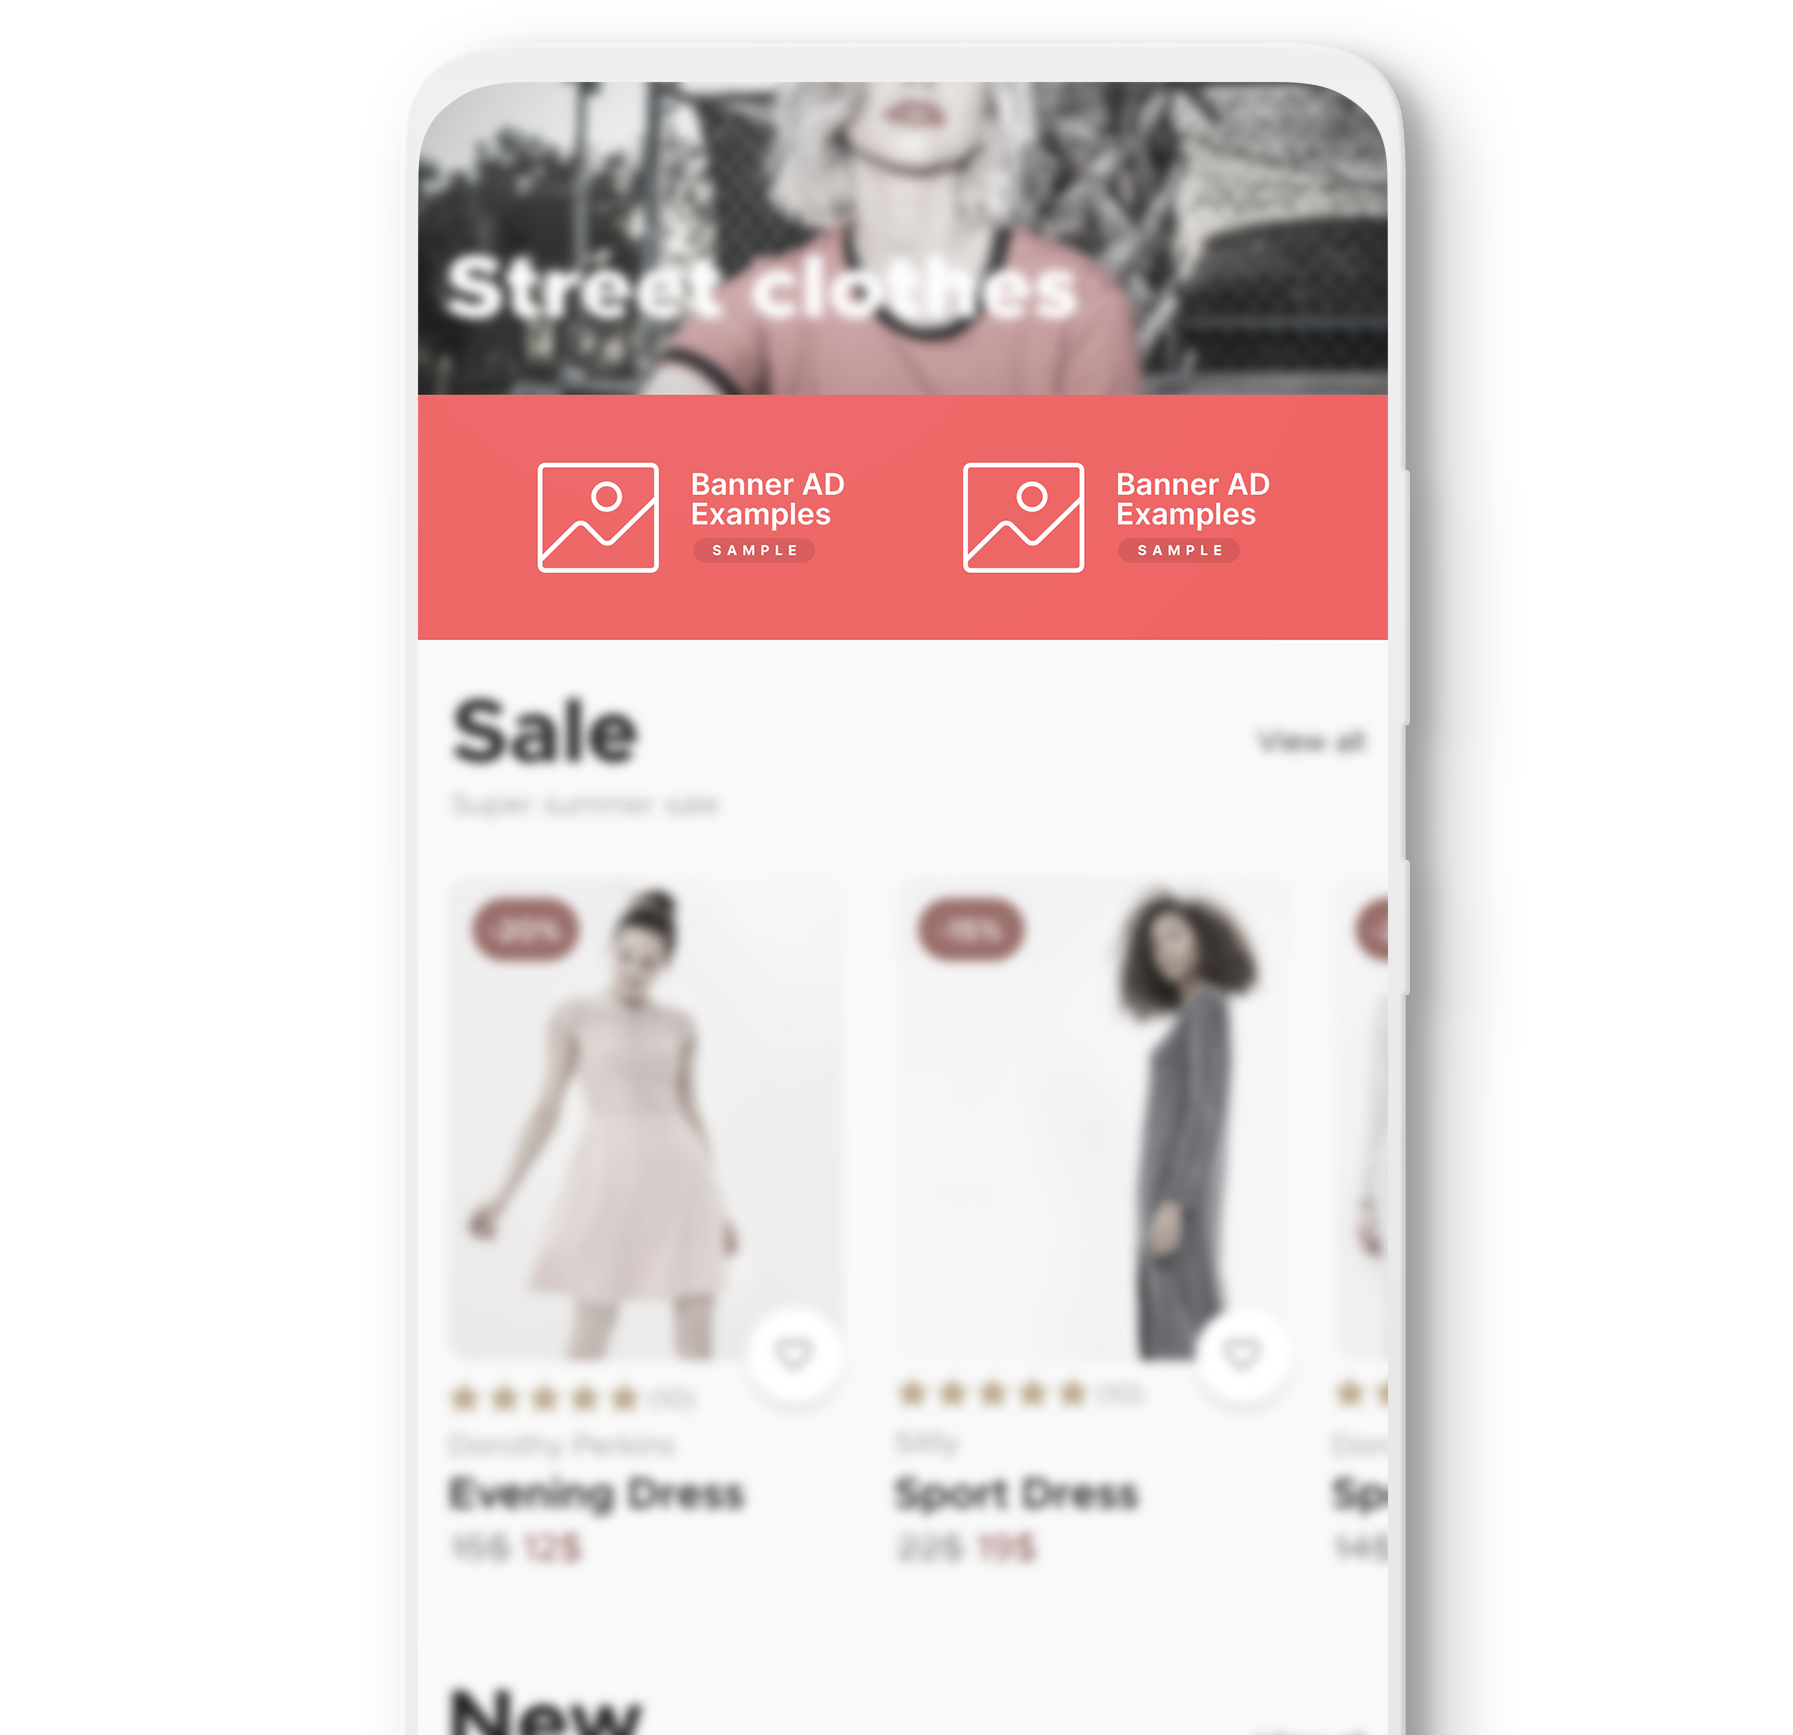
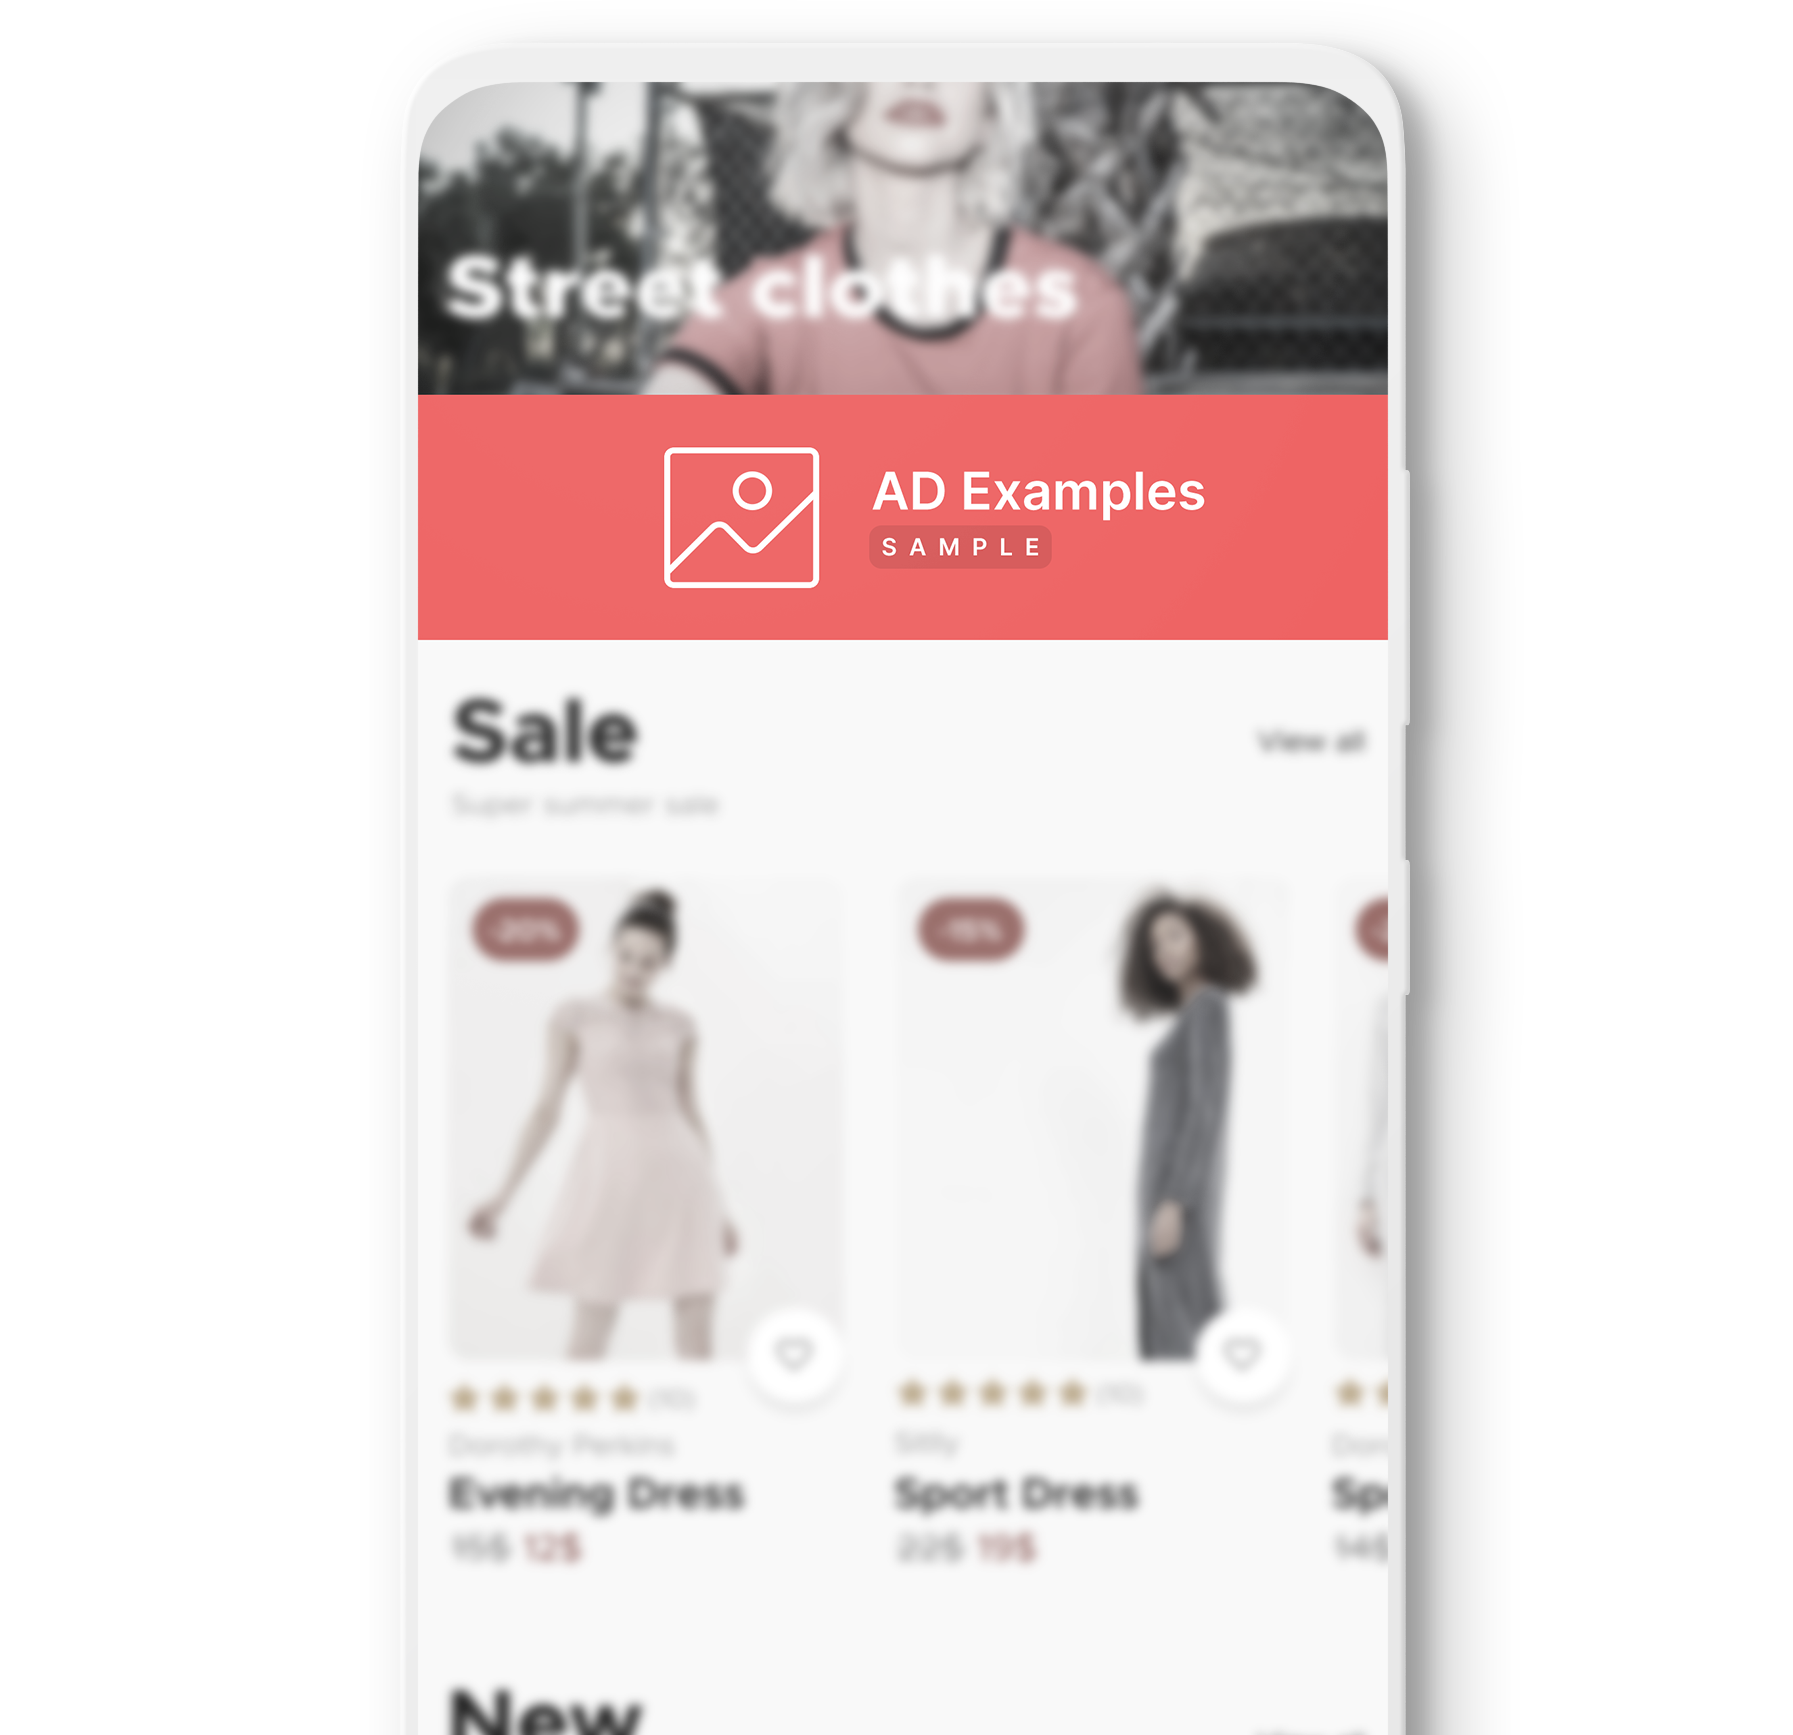
ssp 목업 업데이트

Changed region(s): [[0.2811, 0.249, 0.7183, 0.3424]]

diff --git a/ssp.html b/ssp.html
@@ -293,7 +293,7 @@
                         <img src="/exelbid-homepage/asset/ssp/carousel-item-1.png" class="d-block mw-100 mx-auto">
                       </div>
                       <div class="carousel-item">
-                        <img src="/exelbid-homepage/asset/ssp/carousel-item-1.png" class="d-block mw-100 mx-auto">
+                        <img src="/exelbid-homepage/asset/ssp/carousel-item-2.png" class="d-block mw-100 mx-auto">
                       </div>
                       <div class="carousel-item">
                         <img src="/exelbid-homepage/asset/ssp/carousel-item-1.png" class="d-block mw-100 mx-auto">
